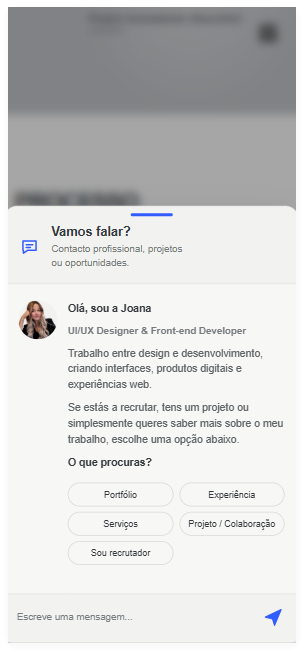
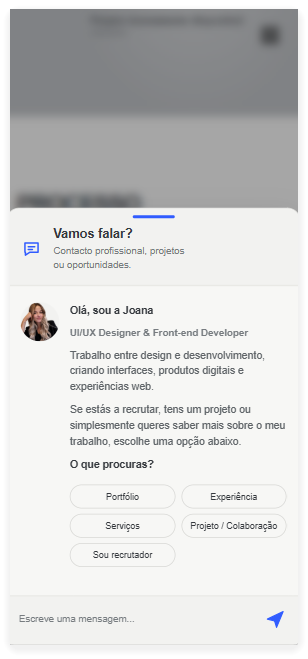
docs: finalize README mobile presentation

diff --git a/README.md b/README.md
@@ -94,8 +94,8 @@ Dense mobile sequences become swipe-based only where this improves scanning. Par
 Code examples remain horizontally explorable in context and can be expanded into a landscape presentation when additional reading space is useful.
 
 <p align="center">
-  <img src="./public/projects/readmeGithub/juh_codigo_shadow.png" width="280" alt="JUH code snippet in its mobile context">&nbsp;&nbsp;
-  <img src="./public/projects/readmeGithub/juh_codigoampliado.png" width="360" alt="JUH code snippet expanded in landscape">
+  <img src="./public/projects/readmeGithub/juh_codigo_shadow.png" width="300" alt="JUH code snippet in its mobile context">&nbsp;&nbsp;
+  <img src="./public/projects/readmeGithub/juh_codigoampliado.png" width="300" alt="JUH code snippet expanded in landscape">
 </p>
 
 ---
